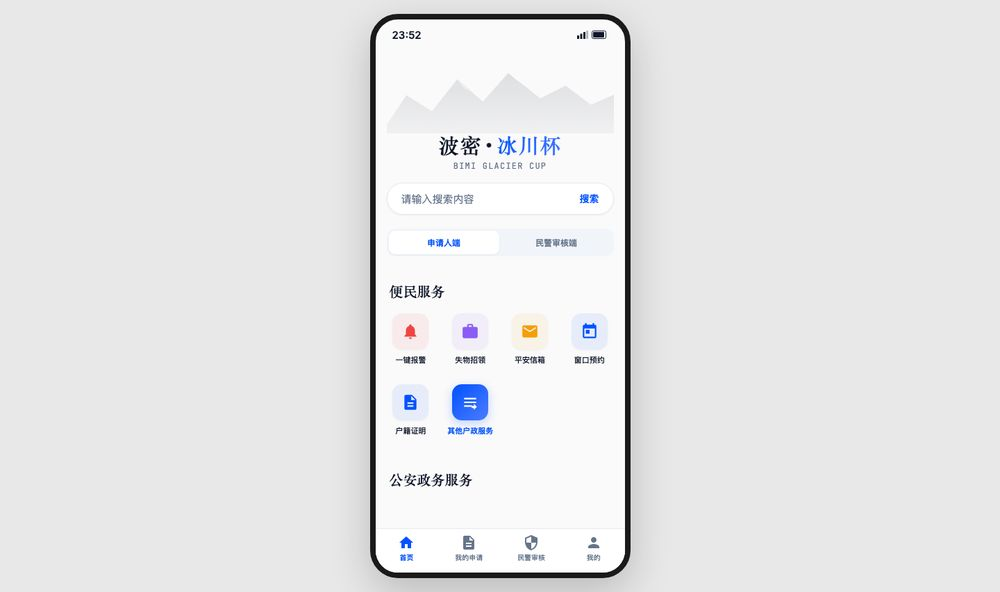
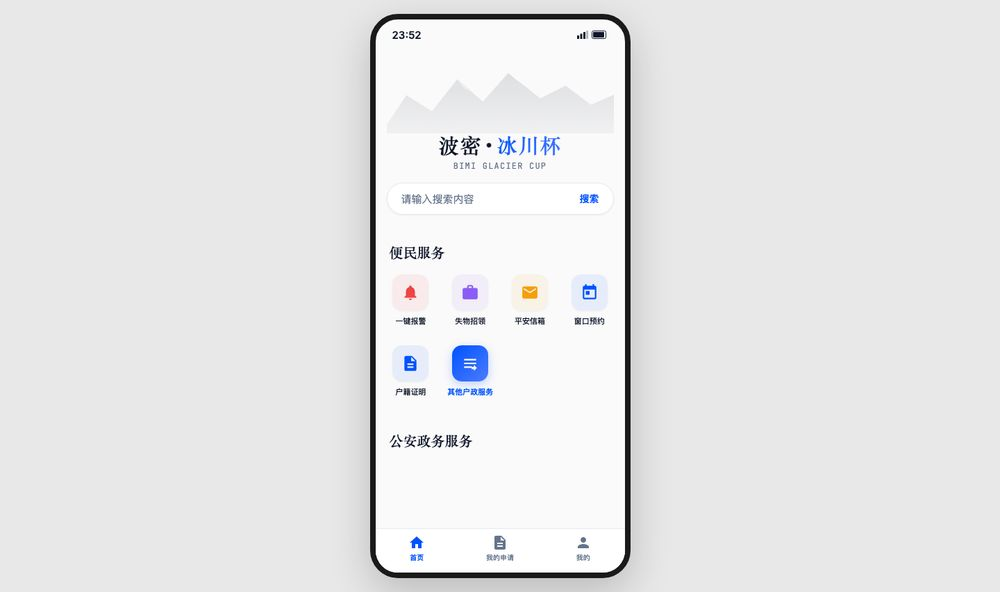
更新小程序原型

diff --git a/index.html b/index.html
@@ -264,7 +264,8 @@ textarea.form-input{height:88px;padding:12px 14px;resize:none;line-height:1.6}
           <div class="home-title"><div class="main-title">波密 · <span class="gradient-text">冰川杯</span></div><div class="sub-title">BIMI GLACIER CUP</div></div>
         </div>
         <div class="search-bar"><span class="placeholder">请输入搜索内容</span><span class="btn-search" onclick="toast('演示搜索')">搜索</span></div>
-        <div class="end-switch"><div class="es-item active" onclick="toast('当前为申请人端')">申请人端</div><div class="es-item" onclick="goPage('police-home')">民警审核端</div></div>
+        <!-- 民警审核端入口已隐藏：端切换条移除（如需恢复，取消注释以下行） -->
+      <!-- <div class="end-switch"><div class="es-item active" onclick="toast('当前为申请人端')">申请人端</div><div class="es-item" onclick="goPage('police-home')">民警审核端</div></div> -->
         <div class="section-title">便民服务</div>
         <div class="grid-4">
           <div class="grid-item" onclick="toast('演示入口')"><div class="grid-icon" style="background:rgba(239,68,68,0.08)"><svg width="26" height="26" viewBox="0 0 24 24" fill="#EF4444"><path d="M12 22c1.1 0 2-.9 2-2h-4c0 1.1.9 2 2 2zm6-6v-5c0-3.07-1.63-5.64-4.5-6.32V4c0-.83-.67-1.5-1.5-1.5S10.5 3.17 10.5 4v.68C7.64 5.36 6 7.92 6 11v5l-2 2v1h16v-1l-2-2z"/></svg></div><span class="grid-label">一键报警</span></div>
@@ -280,7 +281,7 @@ textarea.form-input{height:88px;padding:12px 14px;resize:none;line-height:1.6}
       <div class="tab-bar">
         <div class="tab-item active" onclick="goPage('home')"><svg class="tab-icon" viewBox="0 0 24 24" fill="currentColor"><path d="M10 20v-6h4v6h5v-8h3L12 3 2 12h3v8z"/></svg><span class="tab-label">首页</span></div>
         <div class="tab-item" onclick="goPage('my-list','all')"><svg class="tab-icon" viewBox="0 0 24 24" fill="currentColor"><path d="M14 2H6c-1.1 0-1.99.9-1.99 2L4 20c0 1.1.89 2 2 2h12c1.1 0 2-.9 2-2V8l-6-6zm2 16H8v-2h8v2zm0-4H8v-2h8v2zm-3-5V3.5L18.5 9H13z"/></svg><span class="tab-label">我的申请</span></div>
-        <div class="tab-item" onclick="goPage('police-home')"><svg class="tab-icon" viewBox="0 0 24 24" fill="currentColor"><path d="M12 1L3 5v6c0 5.55 3.84 10.74 9 12 5.16-1.26 9-6.45 9-12V5l-9-4zm0 10.99h7c-.53 4.12-3.28 7.79-7 8.94V12H5V6.3l7-3.11v8.8z"/></svg><span class="tab-label">民警审核</span></div>
+        <!-- 民警审核端Tab已隐藏 -->
         <div class="tab-item" onclick="toast('我的')"><svg class="tab-icon" viewBox="0 0 24 24" fill="currentColor"><path d="M12 12c2.21 0 4-1.79 4-4s-1.79-4-4-4-4 1.79-4 4 1.79 4 4 4zm0 2c-2.67 0-8 1.34-8 4v2h16v-2c0-2.66-5.33-4-8-4z"/></svg><span class="tab-label">我的</span></div>
       </div>
     </div>
